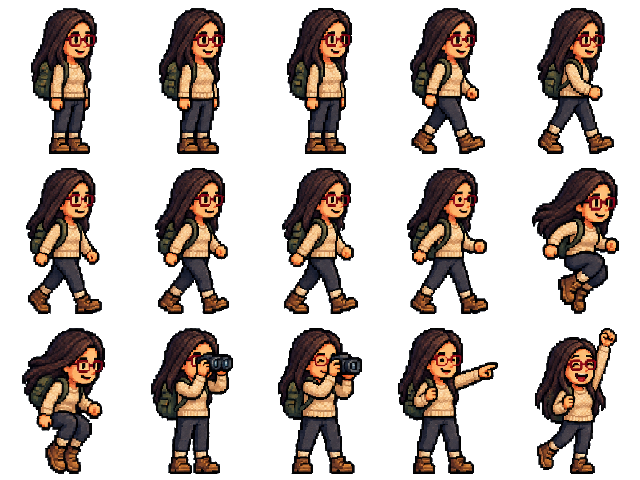
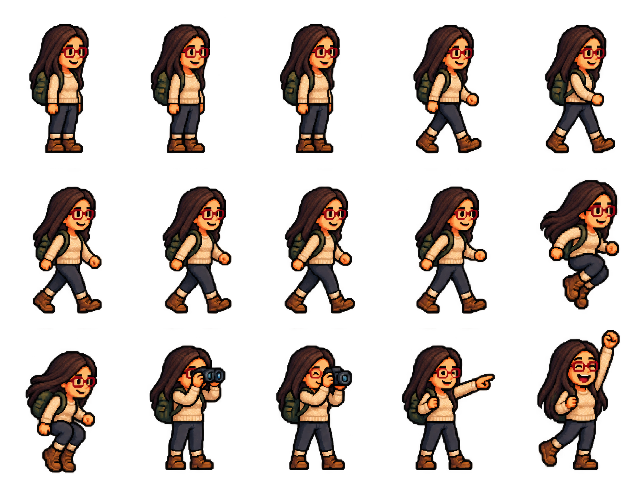
Clean Pablo and Lujan walking sprite edges

diff --git a/tools/process_character_sheets.py b/tools/process_character_sheets.py
@@ -22,6 +22,11 @@ def is_background(pixel: tuple[int, int, int]) -> bool:
 
 
 def remove_connected_background(cell: Image.Image) -> Image.Image:
+    rgba = cell.convert("RGBA")
+    if rgba.getchannel("A").getextrema()[0] < 255:
+        # ImageGen's new sheets carry real transparency. Keep it intact rather
+        # than interpreting transparent RGB pixels as an opaque matte.
+        return rgba
     rgb = cell.convert("RGB")
     width, height = rgb.size
     visited = bytearray(width * height)
@@ -59,6 +64,7 @@ def normalize(source_name: str, output_name: str) -> None:
     cell_width = source.width // GRID[0]
     cell_height = source.height // GRID[1]
     sheet = Image.new("RGBA", (FRAME_SIZE[0] * GRID[0], FRAME_SIZE[1] * GRID[1]))
+    frames = []
 
     for row in range(GRID[1]):
         for column in range(GRID[0]):
@@ -69,17 +75,30 @@ def normalize(source_name: str, output_name: str) -> None:
             bounds = cell.getbbox()
             if not bounds:
                 raise RuntimeError(f"Empty frame at {column}, {row}")
-            character = cell.crop(bounds)
+            frames.append((column, row, cell.crop(bounds)))
+
+    # Keep idle poses steady with one another and all six walk poses steady
+    # with one another; expressive actions can use their own framing.
+    idle_scale = min(min(104 / frame.width, 146 / frame.height)
+                     for column, row, frame in frames if row == 0 and column < 3)
+    walk_scale = min(min(104 / frame.width, 146 / frame.height)
+                     for column, row, frame in frames if (row == 0 and column >= 3) or row == 1 and column < 4)
+    for column, row, character in frames:
+        if row == 0 and column < 3:
+            scale = idle_scale
+        elif (row == 0 and column >= 3) or (row == 1 and column < 4):
+            scale = walk_scale
+        else:
             scale = min(104 / character.width, 146 / character.height)
-            size = (max(1, round(character.width * scale)), max(1, round(character.height * scale)))
-            character = character.resize(size, Image.Resampling.NEAREST)
-            x = column * FRAME_SIZE[0] + (FRAME_SIZE[0] - size[0]) // 2
-            y = row * FRAME_SIZE[1] + 154 - size[1]
-            sheet.alpha_composite(character, (x, y))
+        size = (max(1, round(character.width * scale)), max(1, round(character.height * scale)))
+        character = character.resize(size, Image.Resampling.NEAREST)
+        x = column * FRAME_SIZE[0] + (FRAME_SIZE[0] - size[0]) // 2
+        y = row * FRAME_SIZE[1] + 154 - size[1]
+        sheet.alpha_composite(character, (x, y))
 
     sheet.save(OUTPUT / output_name, optimize=True)
 
 
 if __name__ == "__main__":
-    normalize("pablo-sheet-source.png", "pablo-sheet.png")
-    normalize("lujan-sheet-source.png", "lujan-sheet.png")
+    normalize("pablo-sheet-source-v2.png", "pablo-sheet.png")
+    normalize("lujan-sheet-source-v2.png", "lujan-sheet.png")
